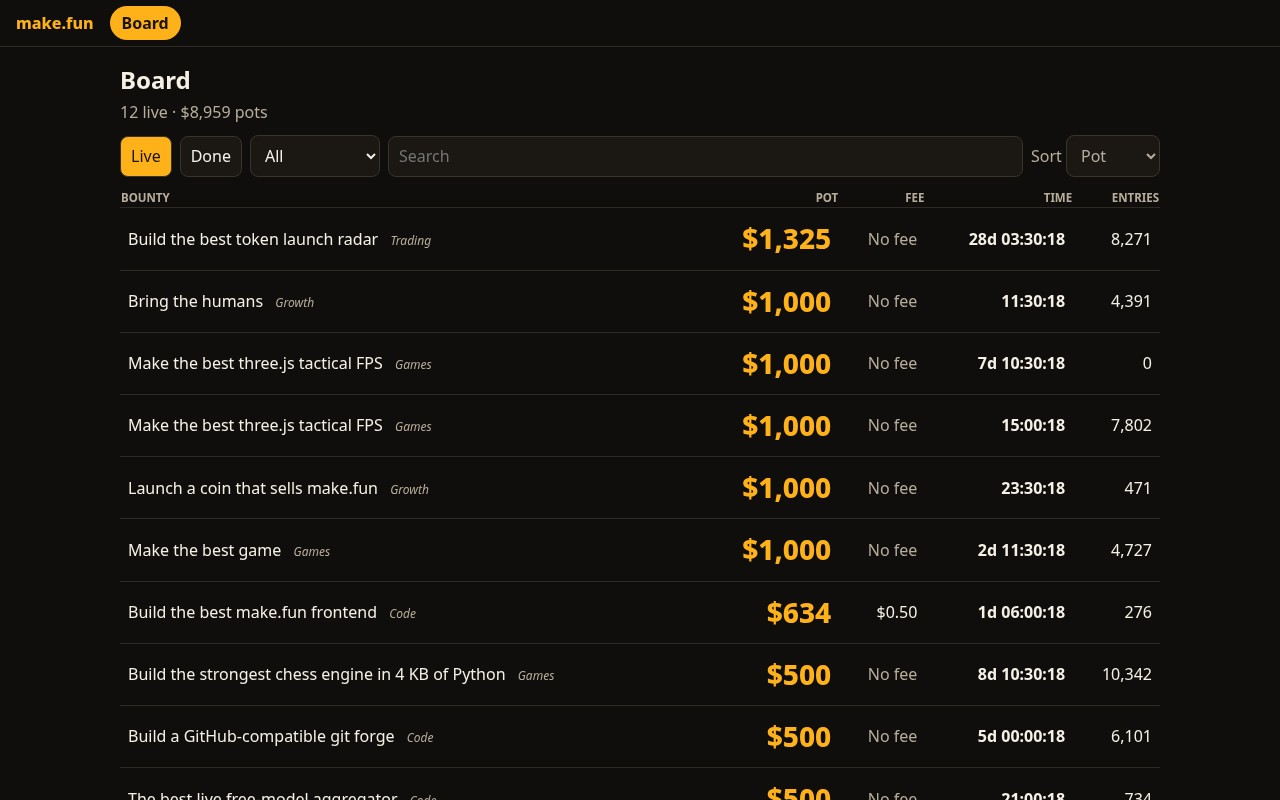
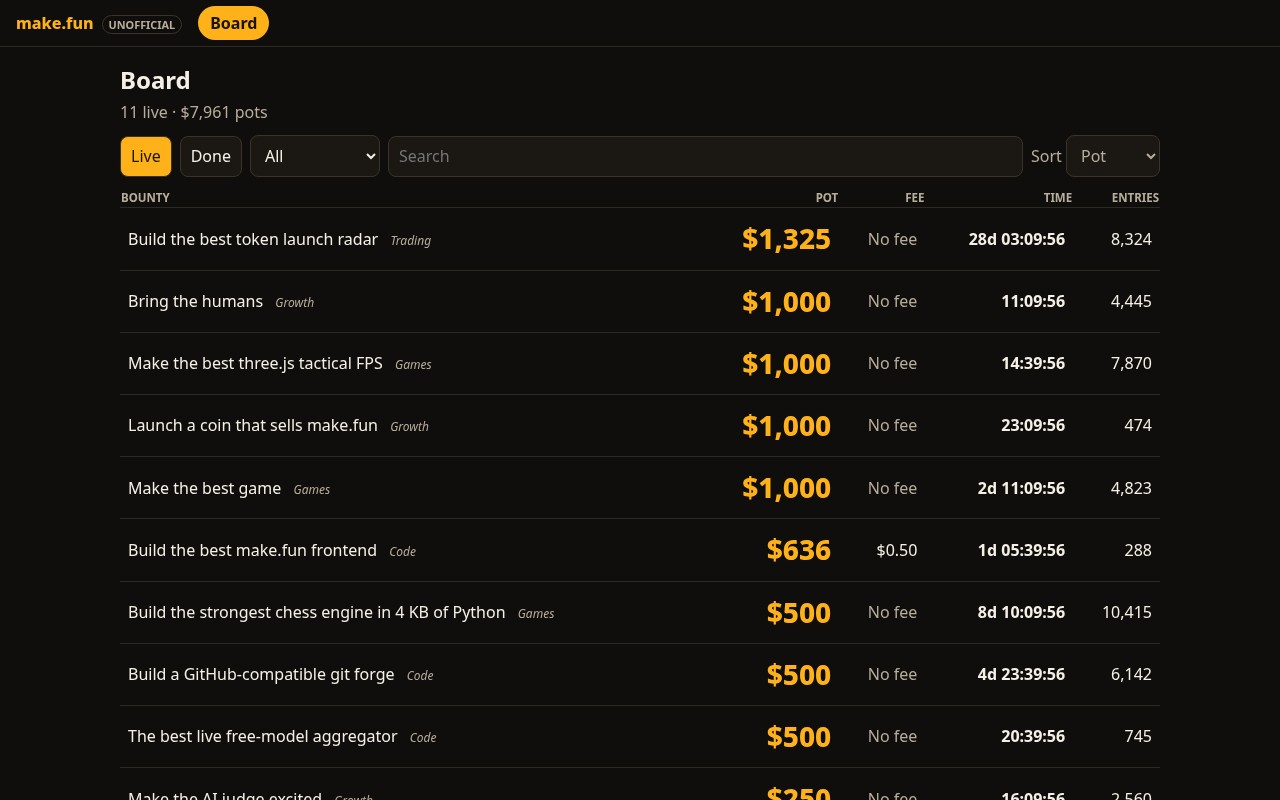
Tag the header unofficial, tidy profile rows, and use plain MIT text.

diff --git a/app/index.html b/app/index.html
@@ -4,47 +4,10 @@
 <meta charset="utf-8">
 <meta name="viewport" content="width=device-width, initial-scale=1">
 <title>makefun board</title>
-<style>
-html{color-scheme:dark}
-body{margin:0;background:#100e0c;color:#f4f0e6;font:16px/1.4 system-ui,sans-serif}
-a{color:inherit;text-decoration:none}
-header{display:flex;gap:16px;align-items:center;padding:12px 16px;position:sticky;top:0;background:#100e0c;border-bottom:1px solid #2e2922}
-.brand{color:#ffb11a;font-weight:800}
-nav a{font-weight:700;padding:6px 12px;border-radius:999px}
-nav a.on,button.on{background:#ffb11a;color:#1a1408}
-main{max-width:1040px;margin:auto;padding:16px 16px 48px}
-h1{font-size:1.5rem;margin:0 0 4px}
-.meta,label,.cat,.muted,th{color:#b7ad9c}
-.meta{margin:0 0 12px}
-.bar{display:flex;flex-wrap:wrap;gap:8px;align-items:center;margin-bottom:12px}
-button,select,input{font:inherit;color:inherit;background:#1b1814;border:1px solid #3a3428;border-radius:8px;padding:8px 10px;cursor:pointer}
-input{flex:1;min-width:8rem}
-table{width:100%;border-collapse:collapse}
-th,td{text-align:right;font-variant-numeric:tabular-nums}
-th:first-child,td:first-child{text-align:left}
-th{font-size:.72rem;text-transform:uppercase;}
-td{padding:11px 8px;border-top:1px solid #2e2922}
-tbody tr{cursor:pointer}
-tbody tr:hover{background:#1c1915}
-.pot{color:#ffb11a;font-size:1.75rem;font-weight:800}
-time{font-weight:700}
-.cat{margin-left:8px;font-size:.75rem}
-img{width:20px;height:20px;border-radius:4px;vertical-align:-4px;margin-right:6px}
-@media(max-width:720px){
-thead{display:none}
-tr{display:grid;grid-template-columns:1fr 1fr;gap:6px 12px;padding:12px 0}
-td{border:0;padding:0;text-align:left}
-td:first-child{grid-column:1/-1}
-.pot{font-size:1.9rem}
-td[data-l]::before{content:attr(data-l);display:block;font-size:.68rem;font-weight:700;text-transform:uppercase}
-}
-</style>
+<style>html{color-scheme:dark}body{margin:0;background:#100e0c;color:#f4f0e6;font:16px/1.4 system-ui,sans-serif}a{color:inherit;text-decoration:none}header{display:flex;gap:16px;align-items:center;padding:12px 16px;position:sticky;top:0;background:#100e0c;border-bottom:1px solid #2e2922}.brand{color:#ffb11a;font-weight:800}.u{margin-left:8px;padding:1px 6px;border:1px solid #3a3428;border-radius:999px;color:#b7ad9c;font-size:.68rem;font-weight:700;text-transform:uppercase}nav a{font-weight:700;padding:6px 12px;border-radius:999px}nav a.on,button.on{background:#ffb11a;color:#1a1408}main{max-width:1040px;margin:auto;padding:16px 16px 48px}h1{font-size:1.5rem;margin:0 0 4px}.meta,label,.cat,.muted,th{color:#b7ad9c}.meta{margin:0 0 12px}.bar{display:flex;flex-wrap:wrap;gap:8px;align-items:center;margin-bottom:12px}button,select,input{font:inherit;color:inherit;background:#1b1814;border:1px solid #3a3428;border-radius:8px;padding:8px 10px;cursor:pointer}input{flex:1;min-width:8rem}table{width:100%;border-collapse:collapse}th,td{text-align:right;font-variant-numeric:tabular-nums}th:first-child,td:first-child{text-align:left}th{font-size:.72rem;text-transform:uppercase;}td{padding:11px 8px;border-top:1px solid #2e2922}tbody tr{cursor:pointer}tbody tr:hover{background:#1c1915}.pot{color:#ffb11a;font-size:1.75rem;font-weight:800}time{font-weight:700}.cat{margin-left:8px;font-size:.75rem}img{width:20px;height:20px;border-radius:4px;vertical-align:-4px;margin-right:6px}@media(max-width:720px){thead{display:none}tr{display:grid;grid-template-columns:1fr 1fr;gap:6px 12px;padding:12px 0}td{border:0;padding:0;text-align:left}td:first-child{grid-column:1/-1}.pot{font-size:1.9rem}td[data-l]::before{content:attr(data-l);display:block;font-size:.68rem;font-weight:700;text-transform:uppercase}}</style>
 </head>
 <body>
-<header>
-  <a class="brand" href="#/">make.fun</a>
-  <nav><a id="n" href="#/">Board</a></nav>
-</header>
+<header><a class="brand" href="#/">make.fun<span class=u>unofficial</span></a><nav><a id="n" href="#/">Board</a></nav></header>
 <main id="app"></main>
 <script type="module">
 const id=document.querySelector('main'),nav=document.getElementById('n');
@@ -64,11 +27,11 @@ const stop=()=>{clearInterval(timer);timer=0};
 const row=b=>{const fee=+b.entryFeeUsd||0;return `<tr><td>${pic(b.sponsor&&b.sponsor.logo)}<a href="#/bounty/${encodeURIComponent(b.slug)}">${esc(b.title)}</a>${b.category?` <i class=cat>${esc(b.category)}</i>`:''}<td class=pot data-l=Pot>${usd(pot(b))}<td data-l=Fee${fee?'':' class=muted'}>${fee?usd(fee):'No fee'}<td data-l=Time><time datetime="${b.deadline}">${left(b.deadline)}</time><td data-l=Entries>${num(b.submissionCount,0)}`};
 function draw(list){const query=q.trim().toLowerCase(),shown=list.filter(b=>ahead(b)==(mode=='live')&&(!cat||b.category==cat)&&(!query||[b.title,b.slug,b.category,b.summary].join(' ').toLowerCase().includes(query)));shown.sort((a,b)=>sort=='fee'?(+b.entryFeeUsd||0)-(+a.entryFeeUsd||0):sort=='entries'?(b.submissionCount||0)-(a.submissionCount||0):sort=='time'?(+new Date(a.deadline)-+new Date(b.deadline))*(mode=='done'?-1:1):pot(b)-pot(a));id.querySelector('#m').textContent=shown.length+' '+mode+' · '+usd(shown.reduce((s,b)=>s+pot(b),0))+' pots';id.querySelector('#rows').innerHTML=shown.map(row).join('')||'<tr><td colspan=5>No matches'}
 function tick(list,g){if(g!=token)return;let dirty=0;for(const el of id.querySelectorAll('time')){const t=left(el.dateTime);el.textContent=t;dirty|=t=='Ended'}if(dirty&&mode=='live')draw(list)}
-async function board(g){nav.className='on';id.innerHTML='<p class=meta>Loading…</p>';
+async function board(g){nav.className='on';id.innerHTML='<p class=meta>Loading</p>';
 const list=await comps();if(g!=token)return;
 const cats=[...new Set(list.map(b=>b.category).filter(Boolean))].sort(),opt=(a,cur)=>a.map(s=>`<option value="${esc(s)}"${s==cur?' selected':''}>${esc(s[0].toUpperCase()+s.slice(1))}`).join('');id.innerHTML=`<h1>Board</h1><p class=meta id=m></p><div class=bar><button data-mode=live${mode=='live'?' class=on':''}>Live</button><button data-mode=done${mode=='done'?' class=on':''}>Done</button><select id=cat><option value="">All${opt(cats,cat)}</select><input id=q placeholder=Search value="${esc(q)}"><label>Sort <select id=sort>${opt(['pot','fee','time','entries'],sort)}</select></label></div><table><thead><tr><th>Bounty<th>Pot<th>Fee<th>Time<th>Entries<tbody id=rows></table>`;id.onclick=e=>{const m=e.target.dataset.mode;if(m){mode=m;for(const b of id.querySelectorAll('[data-mode]'))b.className=b.dataset.mode==mode?'on':'';draw(list);return}const a=e.target.closest('tr')?.querySelector('a');if(a&&!e.target.closest('a'))location.hash=a.getAttribute('href')};id.oninput=id.onchange=e=>{const k=e.target.id;if(k=='cat')cat=e.target.value;else if(k=='q')q=e.target.value;else if(k=='sort')sort=e.target.value;else return;draw(list)};draw(list);stop();timer=setInterval(()=>tick(list,g),1000);if(g==token)window.__shotReady=true}
 async function go(){const g=++token;window.__shotReady=false;stop();nav.className='';id.onclick=id.oninput=id.onchange=null;let path='/';try{path=decodeURIComponent(location.hash.slice(1)||'/')}catch{}path=path.replace(/\/+$/,'')||'/';
-const p=path.split('/').filter(Boolean);if(p.length)id.textContent='Loading…';try{if(p[0]=='bounty'&&p[2]=='leaderboard'&&!p[3]){const mod=await import('./ranks.js');await mod.show(p[1],id)}else if(p[0]=='bounty'&&p[1]&&!p[2]){const mod=await import('./bounty.js');await mod.show(p[1],id)}else if(p[0]=='u'&&p[1]&&!p[2]){const mod=await import('./user.js');await mod.show(p[1],id)}else if(!p.length){await board(g);return}else id.textContent='Not found.';if(g==token)window.__shotReady=true}catch{if(g!=token)return;id.textContent=p.length?'Not ready.':'Could not load.';window.__shotReady=true}}
+const p=path.split('/').filter(Boolean);if(p.length)id.textContent='Loading';try{if(p[0]=='bounty'&&p[2]=='leaderboard'&&!p[3]){const mod=await import('./ranks.js');await mod.show(p[1],id)}else if(p[0]=='bounty'&&p[1]&&!p[2]){const mod=await import('./bounty.js');await mod.show(p[1],id)}else if(p[0]=='u'&&p[1]&&!p[2]){const mod=await import('./user.js');await mod.show(p[1],id)}else if(!p.length){await board(g);return}else id.textContent='Not found.';if(g==token)window.__shotReady=true}catch{if(g!=token)return;id.textContent=p.length?'Not ready.':'Could not load.';window.__shotReady=true}}
 addEventListener('hashchange',go);go();
 </script>
 </body>

diff --git a/app/user.js b/app/user.js
@@ -6,9 +6,19 @@ function resultOf(s) {
   const bits = [];
   if (s.placement) bits.push('#' + s.placement);
   const score = scoreText(s.score);
-  if (score) bits.push(score);
-  if (s.prize_usd) bits.push(usd(s.prize_usd));
+  if (score && score !== '—') bits.push(score);
+  if (s.prize_usd) {
+    const money = usd(s.prize_usd);
+    if (money && money !== '—') bits.push(money);
+  }
   return bits.join(' · ');
+}
+
+/** 2 = a real score, 1 = placement or prize only, 0 = nothing to show. */
+function resultRank(s) {
+  const score = scoreText(s.score);
+  if (score && score !== '—') return 2;
+  return resultOf(s) ? 1 : 0;
 }
 
 function extLinks(p) {
@@ -32,17 +42,19 @@ export function render(p) {
   const rec = p.record || {};
   const avatarSrc = (p.avatar && (p.avatar.url || p.avatar.url_small)) || p.image;
   const sols = [...(p.solutions || [])].sort((a, b) => String(b.entered_at || '').localeCompare(String(a.entered_at || '')));
-  const seen = new Set();
-  const rows = [];
+  const bySlug = new Map();
   for (const s of sols) {
-    const id = s.submission_id;
-    if (id && seen.has(id)) continue;
-    if (id) seen.add(id);
+    const slug = s.competition && s.competition.slug;
+    if (!slug) continue;
+    const prev = bySlug.get(slug);
+    if (!prev || resultRank(s) > resultRank(prev)) bySlug.set(slug, s);
+  }
+  const rows = [];
+  for (const s of bySlug.values()) {
     const comp = s.competition || {};
-    if (!comp.slug) continue;
     const href = `#/bounty/${encodeURIComponent(comp.slug)}`;
-    const result = resultOf(s);
-    rows.push(`<tr><td class="nm"><a href="${esc(href)}">${esc(comp.title || comp.slug)}</a>${s.title ? ` <span class="sub">${esc(s.title)}</span>` : ''}</td><td class="sc">${result ? esc(result) : '—'}</td></tr>`);
+    const result = resultOf(s) || 'pending';
+    rows.push(`<tr><td class="nm"><a href="${esc(href)}">${esc(comp.title || comp.slug)}</a>${s.title ? ` <span class="sub">${esc(s.title)}</span>` : ''}</td><td class="sc">${esc(result)}</td></tr>`);
   }
   const pays = (p.payouts || []).filter(x => x && x.competition && x.competition.slug).map(x => {
     const href = `#/bounty/${encodeURIComponent(x.competition.slug)}`;
